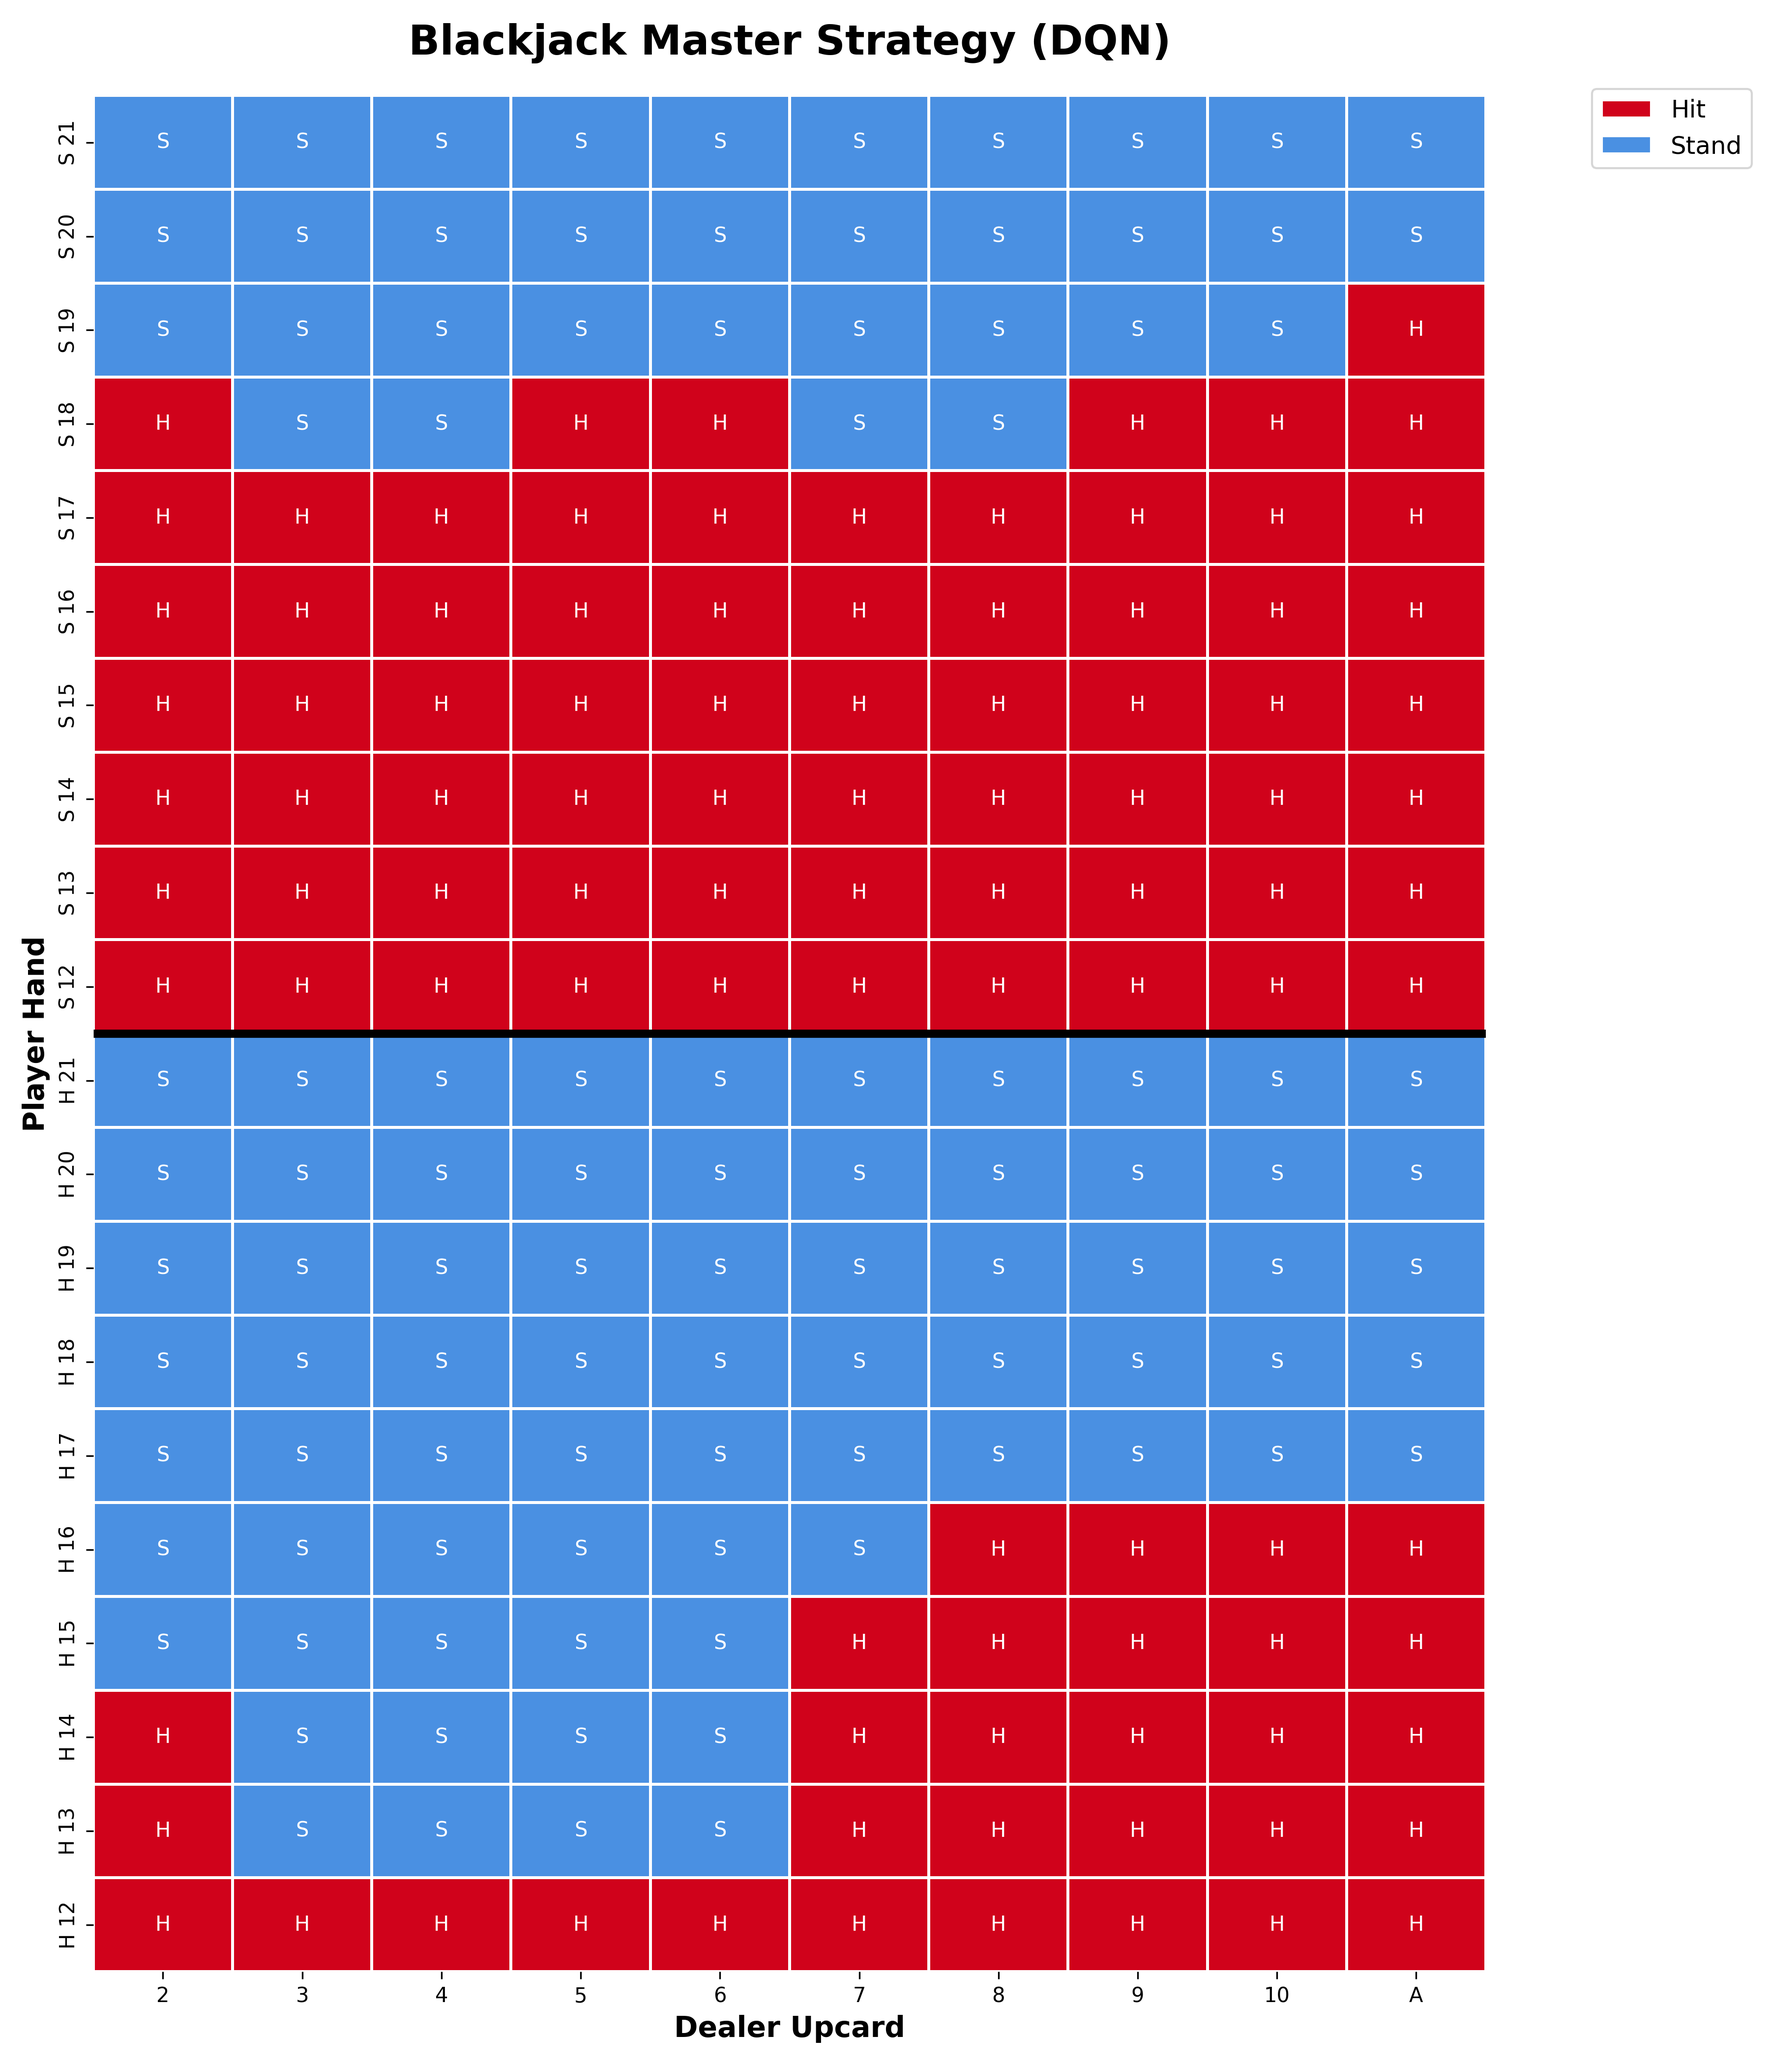
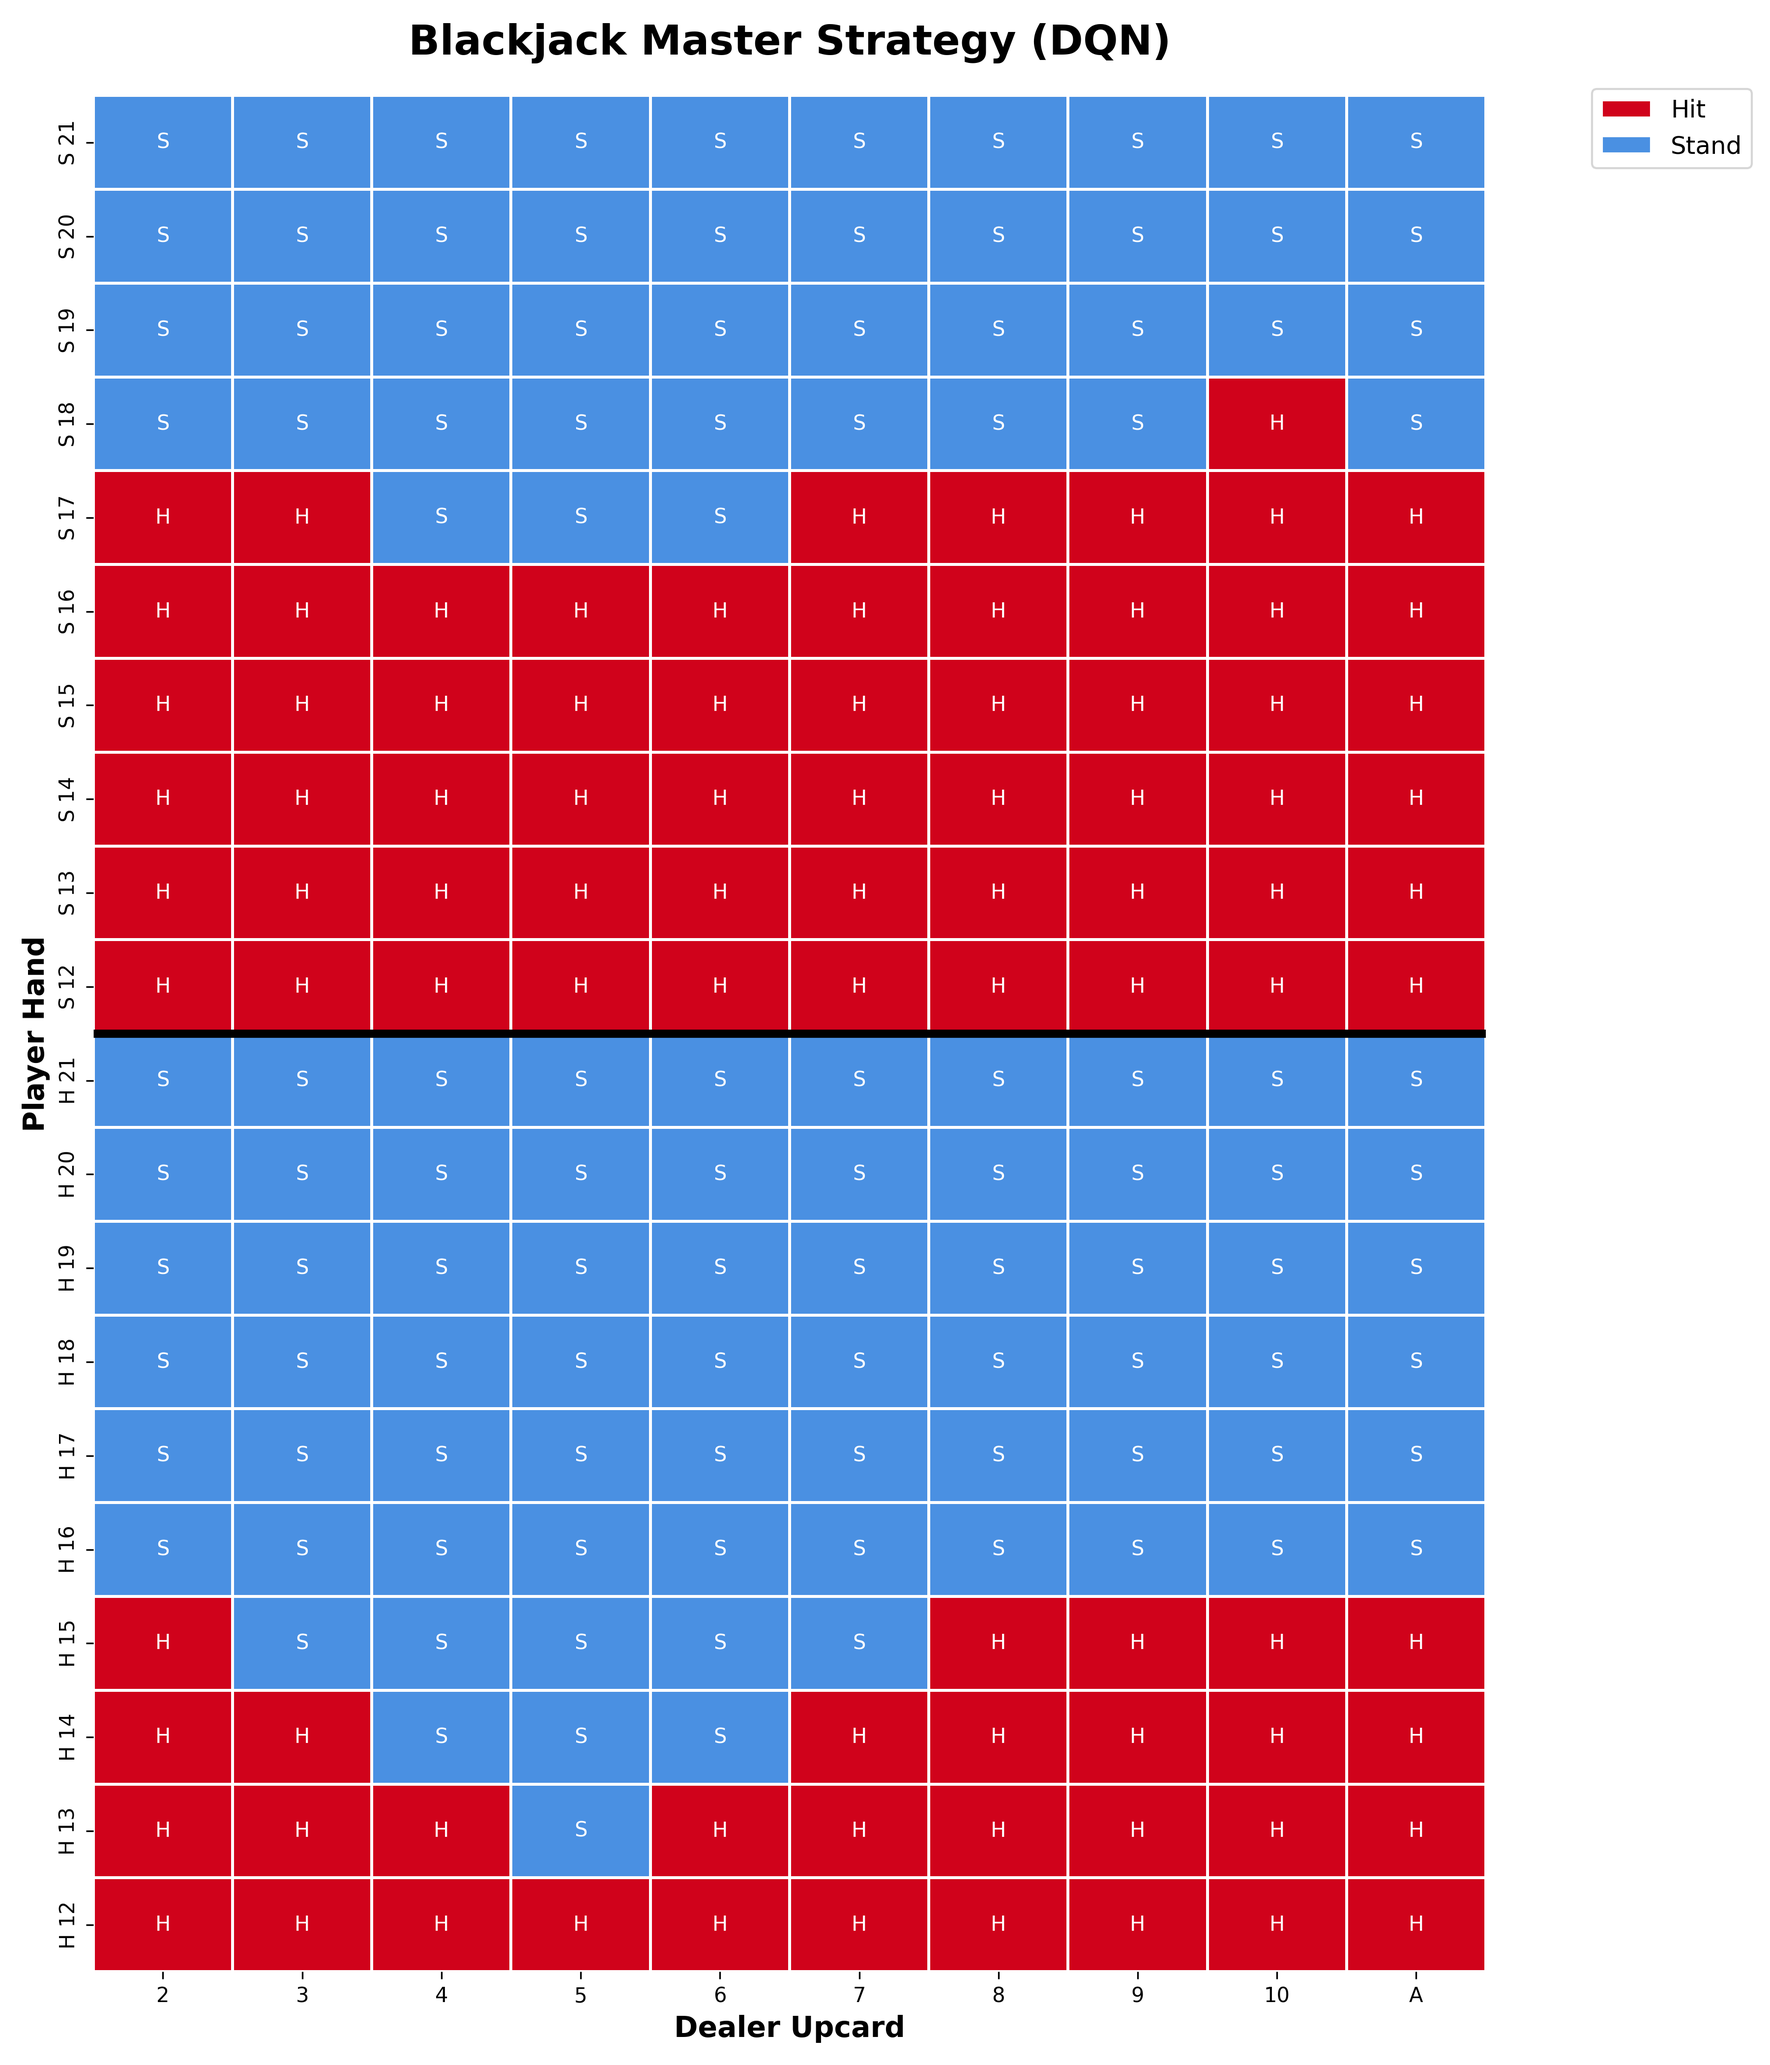
Changed number of episodes

diff --git a/config.py b/config.py
@@ -9,15 +9,15 @@ ENABLE_TENSORBOARD = True
 # --- Agent Configurations ---
 
 DQN_CONFIG = {
-    "EPISODES": 5000,
-    "BATCH_SIZE": 64,
-    "GAMMA": 0.95,
+    "EPISODES": 50000,
+    "BATCH_SIZE": 256,
+    "GAMMA": 1,
     "EPS_START": 1.0,
     "EPS_MIN": 0.01,
     "EPS_DECAY": 0.995,
-    "LR": 0.001,
+    "LR": 0.003,
     "MEMORY_SIZE": 100000,
-    "TARGET_UPDATE": 10
+    "TARGET_UPDATE": 500
 }
 
 DUELING_CONFIG = {

diff --git a/agents/dqn_agent.py b/agents/dqn_agent.py
@@ -40,7 +40,7 @@ class DQNAgent(BaseAgent):
         self.target_model.eval()
 
         self.optimizer = optim.Adam(self.model.parameters(), lr=self.config["LR"])
-        self.criterion = nn.MSELoss()
+        self.criterion = nn.SmoothL1Loss()
 
     def get_action(self, state, eval_mode=False):
         if isinstance(state, tuple):
